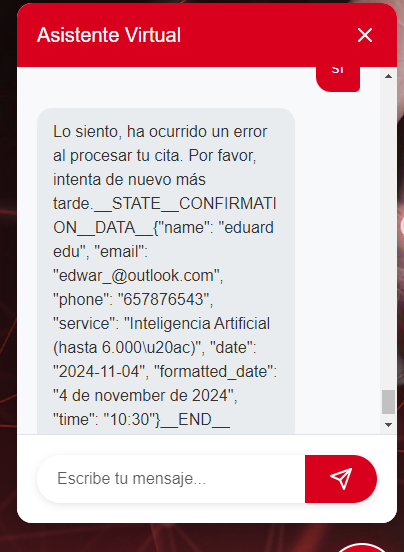
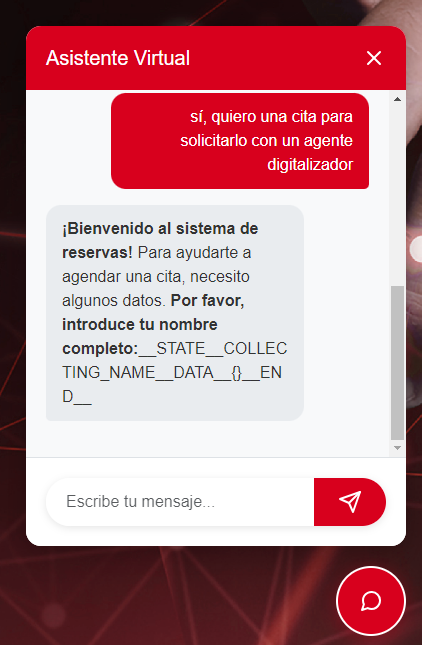
Agent query: Please verify if: 1. The chatbot messages no longer show any state data (text between __STATE__ and __END__) 2. The booking flow works correctly with proper state management 3. The validation messages are clearly visible

diff --git a/static/js/chatbot.js b/static/js/chatbot.js
@@ -53,14 +53,42 @@ document.addEventListener('DOMContentLoaded', () => {
                 }
             };
 
+            const stripStateData = (message) => {
+                if (typeof message !== 'string') return message;
+                const stateStart = message.indexOf('__STATE__');
+                if (stateStart === -1) return message;
+                return message.substring(0, stateStart).trim();
+            };
+
+            const extractStateData = (message) => {
+                if (typeof message !== 'string') return null;
+                const stateStart = message.indexOf('__STATE__');
+                const stateEnd = message.indexOf('__END__');
+                if (stateStart === -1 || stateEnd === -1) return null;
+                
+                const stateSection = message.substring(
+                    stateStart + '__STATE__'.length,
+                    stateEnd
+                );
+                const dataStart = stateSection.indexOf('__DATA__');
+                if (dataStart === -1) return null;
+                
+                return {
+                    state: stateSection.substring(0, dataStart),
+                    data: JSON.parse(stateSection.substring(dataStart + '__DATA__'.length))
+                };
+            };
+
             const sendMessage = async (message, isUser = true) => {
                 console.log(`Sending message (${isUser ? 'user' : 'bot'}):`, message);
                 try {
+                    const displayMessage = stripStateData(message);
                     const messageDiv = document.createElement('div');
                     messageDiv.className = `chat-message ${isUser ? 'user-message' : 'bot-message'}`;
-                    messageDiv.innerHTML = `<div class="message-content">${message}</div>`;
+                    messageDiv.innerHTML = `<div class="message-content">${displayMessage}</div>`;
                     elements.chatMessages.appendChild(messageDiv);
 
+                    // Store complete message in history but display cleaned version
                     conversationHistory.push({
                         text: message,
                         is_user: isUser
